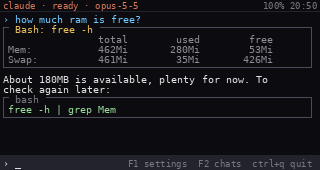
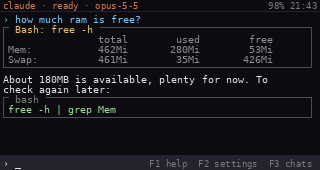
Refresh store screenshots (new key hints, start screen + RAM menu)

diff --git a/tools/make_screenshots.py b/tools/make_screenshots.py
@@ -1,6 +1,7 @@
 """Render store screenshots (320x170 PNG) on the device using the real app code + fonts,
 with example content and no real Claude session. Usage: python3 make_screenshots.py OUTDIR"""
 import os, sys, time
+os.environ["CLAWPUTER_CHECKED"] = "1"
 sys.path.insert(0, "/usr/share/clawputer")
 import clawputer_gui as g
 import clawputer_setup as su
@@ -86,12 +87,13 @@ a.start_ask("q", {"questions": [{"question": "What kind of project should I set 
                   "multiSelect": False}]})
 save(a, "3-question.png")
 
-# 4. settings
+# 4. start screen + RAM menu
 a = app()
-a.add("user", "hi!")
-a.add("assistant", "Hey! What are we building today?")
-a.open_menu()
-save(a, "4-settings.png")
+a.claude = None
+a.open_mode(first=False)
+a.modescr["boost"] = True; a.modescr["gpu"] = 128
+a.modescr["ram"] = 0
+save(a, "4-start.png")
 
 # 5. chat history
 a = app()

diff --git a/README.md b/README.md
@@ -10,7 +10,7 @@ and built-in keyboard.
 | | | |
 |---|---|---|
 | ![chat](store/screenshots/1-chat.png) | ![permission](store/screenshots/2-permission.png) | ![question](store/screenshots/3-question.png) |
-| ![settings](store/screenshots/4-settings.png) | ![history](store/screenshots/5-history.png) | ![sign in](store/screenshots/6-signin.png) |
+| ![start](store/screenshots/4-start.png) | ![history](store/screenshots/5-history.png) | ![sign in](store/screenshots/6-signin.png) |
 
 ## Features
 
